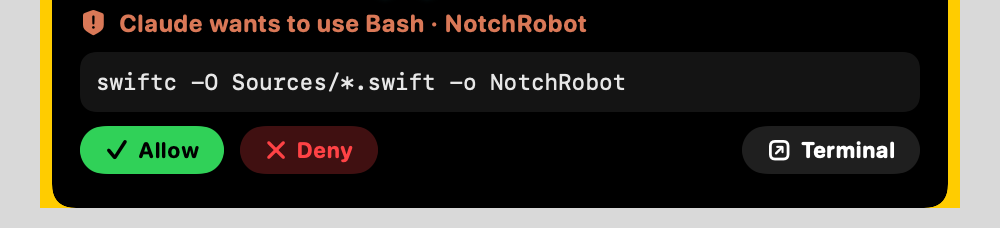
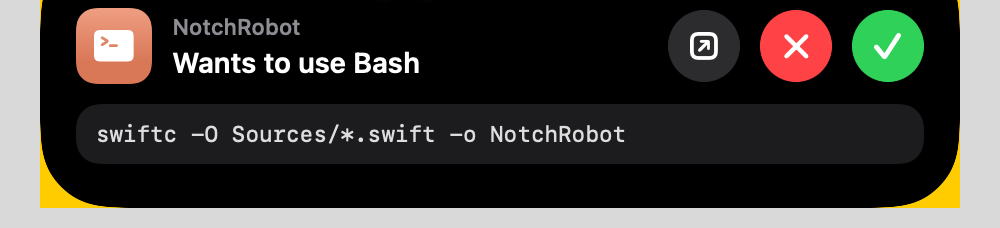
Keep permission cards up while other tools finish; refresh README for the new design

diff --git a/Sources/ClaudeStore.swift b/Sources/ClaudeStore.swift
@@ -71,6 +71,7 @@ struct PermissionAsk: Identifiable, Equatable {
     let hookPid: Int32
     var questions: [AskQuestion] = []   // مش فاضية = كلود بيسألك مش بيستأذن
     var input = Data()                  // الـ tool_input الأصلي، بنرجّعه ومعاه الإجابات
+    var key = ""                        // اسم الأداة + مدخلاتها، عشان نعرف نتيجتها لما توصل
 }
 
 final class ClaudeStore: ObservableObject {
@@ -173,10 +174,10 @@ final class ClaudeStore: ObservableObject {
             let before = dict.count
             dict = dict.filter { isAlive($0.value) }
             if dict.count != before { changed = true }
-            // الـ hook خلص (اتجاوب في التيرمنال، اتلغى، أو الوقت خلص)
-            let alive = asks.filter { kill($0.hookPid, 0) == 0 || errno != ESRCH }
-            if alive != asks { asks = alive }
         }
+        // الـ hook خلص (اتجاوب في التيرمنال، اتلغى، أو الوقت خلص): ده الدليل الأكيد إن الطلب مبقاش مستني
+        let alive = asks.filter { kill($0.hookPid, 0) == 0 || errno != ESRCH }
+        if alive != asks { asks = alive }
 
         if changed {
             sessions = dict.values.sorted { $0.updated > $1.updated }
@@ -195,8 +196,14 @@ final class ClaudeStore: ObservableObject {
             asks.removeAll { $0.sessionId == sid }
             return dict.removeValue(forKey: sid) != nil
         }
-        // كلود كمّل → الطلب اتجاوب من التيرمنال
-        if ["PostToolUse", "PostToolUseFailure", "Stop", "StopFailure", "UserPromptSubmit"].contains(event) {
+        // نفس الأداة خلصت → الطلب اتجاوب من التيرمنال. أدوات تانية شغالة جنبها (أو subagents)
+        // بتخلص وطلبك لسه مستني، فمنشيلش كروت الجلسة كلها
+        if event == "PostToolUse" || event == "PostToolUseFailure" {
+            let k = Self.key(j)
+            asks.removeAll { $0.sessionId == sid && $0.key == k }
+        }
+        // الدور خلص أو كتبت رسالة جديدة → مفيش طلب مستني
+        if ["Stop", "StopFailure", "UserPromptSubmit"].contains(event) {
             asks.removeAll { $0.sessionId == sid }
         }
 
@@ -265,6 +272,13 @@ final class ClaudeStore: ObservableObject {
             DispatchQueue.main.async { self.onTransition?(snapshot) }
         }
         return true
+    }
+
+    /// بيميّز استخدام أداة بعينه: اسمها + مدخلاتها مترتبة
+    private static func key(_ j: [String: Any]) -> String {
+        let input = j["tool_input"] as? [String: Any] ?? [:]
+        let data = try? JSONSerialization.data(withJSONObject: input, options: [.sortedKeys])
+        return (j["tool_name"] as? String ?? "") + ":" + (data.map { String(decoding: $0, as: UTF8.self) } ?? "")
     }
 
     /// بيحدّث قايمة المهام من نتيجة أداة؛ true لو اتغيّرت
@@ -340,6 +354,7 @@ final class ClaudeStore: ObservableObject {
         let cwd = j["cwd"] as? String ?? dict[sid]?.cwd ?? ""
         var ask = PermissionAsk(id: id, sessionId: sid, project: (cwd as NSString).lastPathComponent,
                                 tool: tool, detail: String(detail.prefix(400)), hookPid: hookPid)
+        ask.key = Self.key(j)
         if tool == "AskUserQuestion" {
             ask.questions = (input["questions"] as? [[String: Any]] ?? []).compactMap { q in
                 guard let text = q["question"] as? String else { return nil }

diff --git a/README.md b/README.md
@@ -16,8 +16,9 @@
 
 ## Features
 
+- **Looks like the Dynamic Island.** A pill that springs open into a rounded island, with SF Pro, iOS colors, and blur transitions.
 - **Claude Code in the notch.** See every running `claude` session (working, waiting, or done), and click one to jump to its terminal tab (Terminal and iTerm2).
-- **Approve or deny from the notch.** When Claude asks for permission to use a tool, you can **Allow**, **Deny**, or send it back to the terminal without leaving what you're doing.
+- **Approve or deny from the notch.** When Claude asks for permission to use a tool, you can **Allow**, **Deny**, or send it back to the terminal without leaving what you're doing. The card stays until you answer, even while Claude runs other tools or subagents.
 - **Answer Claude's questions.** Single-choice questions, multi-select questions, and several questions in a row (with Next / Back) all work from the notch.
 - **Account usage.** Your Claude plan's 5-hour and weekly usage, with when each one resets (Pro and Max plans).
 - **Task progress.** When Claude works through a task list, each session shows `2/4` and a progress bar, plus the task it's on now.
